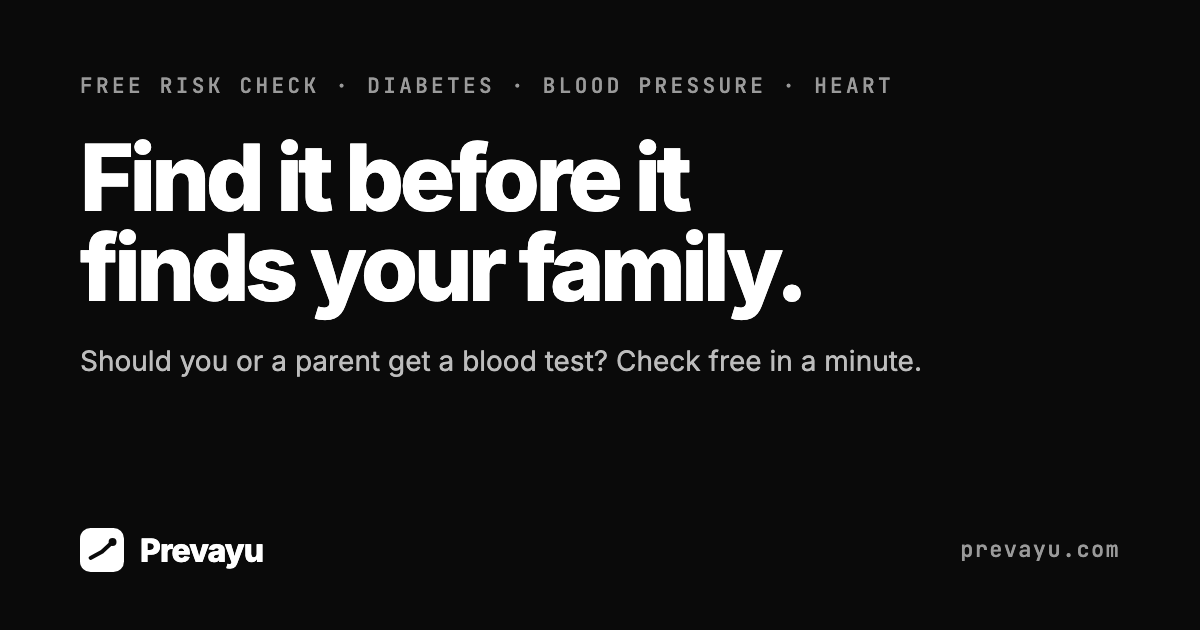
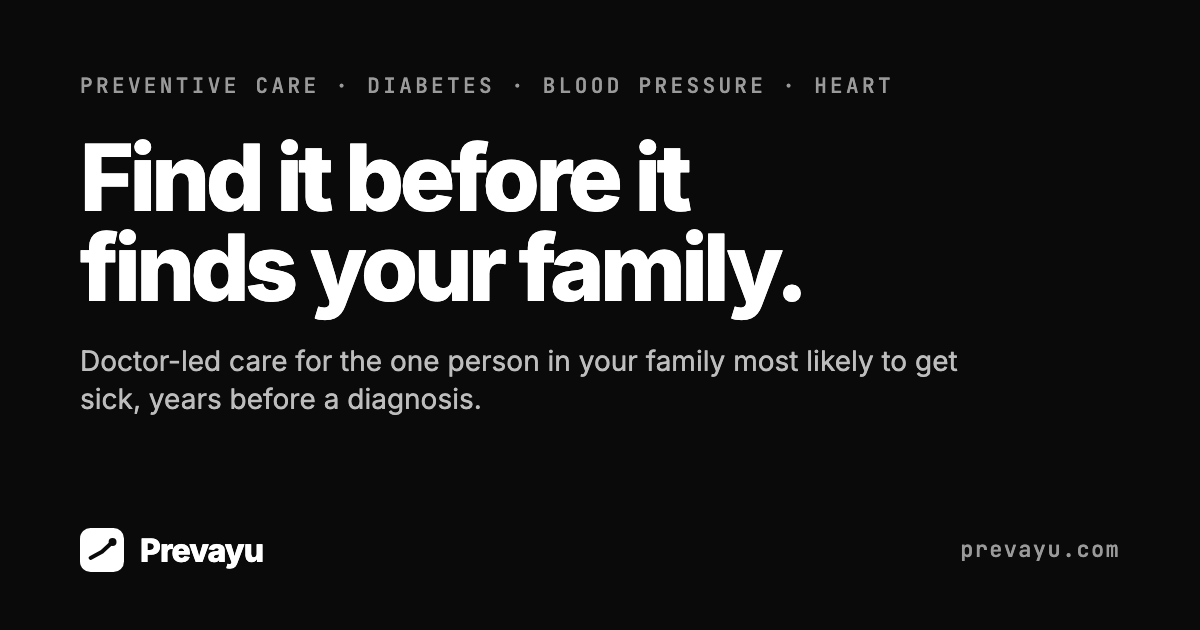
Homepage title and share image lead with positioning, not the free check

Changed region(s): [[0.0617, 0.5429, 0.8017, 0.6635], [0.0925, 0.1206, 0.2775, 0.1508]]

diff --git a/index.html b/index.html
@@ -3,25 +3,25 @@
 <head>
 <meta charset="utf-8">
 <meta name="viewport" content="width=device-width, initial-scale=1">
-<title>Free Diabetes Risk Check for You or Your Parents | Prevayu</title>
-<meta name="description" content="Should you or a parent get a blood test for diabetes? Take the free Indian Diabetes Risk Score check, then get doctor-led care that stays with your family.">
+<title>Prevayu | Find It Before It Finds Your Family</title>
+<meta name="description" content="Prevayu finds the family member most likely to get diabetes, high blood pressure or heart disease, years early, and keeps them in care with a doctor-led team.">
 <link rel="canonical" href="https://www.prevayu.com/">
 <meta property="og:type" content="website">
 <meta property="og:site_name" content="Prevayu">
 <meta property="og:locale" content="en_IN">
-<meta property="og:title" content="Free Diabetes Risk Check for You or Your Parents | Prevayu">
-<meta property="og:description" content="Should you or a parent get a blood test for diabetes? Take the free Indian Diabetes Risk Score check, then get doctor-led care that stays with your family.">
+<meta property="og:title" content="Prevayu | Find It Before It Finds Your Family">
+<meta property="og:description" content="Prevayu finds the family member most likely to get diabetes, high blood pressure or heart disease, years early, and keeps them in care with a doctor-led team.">
 <meta property="og:url" content="https://www.prevayu.com/">
 <meta property="og:image" content="https://www.prevayu.com/og/home.png">
 <meta property="og:image:type" content="image/png">
 <meta property="og:image:width" content="1200">
 <meta property="og:image:height" content="630">
-<meta property="og:image:alt" content="Prevayu. Find it before it finds your family. Free diabetes risk check.">
+<meta property="og:image:alt" content="Prevayu. Find it before it finds your family. Doctor-led preventive care for Indian families.">
 <meta name="twitter:card" content="summary_large_image">
-<meta name="twitter:title" content="Free Diabetes Risk Check for You or Your Parents | Prevayu">
-<meta name="twitter:description" content="Should you or a parent get a blood test for diabetes? Take the free Indian Diabetes Risk Score check, then get doctor-led care that stays with your family.">
+<meta name="twitter:title" content="Prevayu | Find It Before It Finds Your Family">
+<meta name="twitter:description" content="Prevayu finds the family member most likely to get diabetes, high blood pressure or heart disease, years early, and keeps them in care with a doctor-led team.">
 <meta name="twitter:image" content="https://www.prevayu.com/og/home.png">
-<meta name="twitter:image:alt" content="Prevayu. Find it before it finds your family. Free diabetes risk check.">
+<meta name="twitter:image:alt" content="Prevayu. Find it before it finds your family. Doctor-led preventive care for Indian families.">
 <script type="application/ld+json">
 {
  "@context": "https://schema.org",
@@ -62,9 +62,9 @@
   },
   {
    "@type": "WebPage",
-   "name": "Free Diabetes Risk Check for You or Your Parents | Prevayu",
+   "name": "Prevayu | Find It Before It Finds Your Family",
    "url": "https://www.prevayu.com/",
-   "description": "Should you or a parent get a blood test for diabetes? Take the free Indian Diabetes Risk Score check, then get doctor-led care that stays with your family.",
+   "description": "Prevayu finds the family member most likely to get diabetes, high blood pressure or heart disease, years early, and keeps them in care with a doctor-led team.",
    "isPartOf": {
     "@id": "https://www.prevayu.com/#site"
    },

diff --git a/about.html b/about.html
@@ -3,13 +3,13 @@
 <head>
 <meta charset="utf-8">
 <meta name="viewport" content="width=device-width, initial-scale=1">
-<title>About Prevayu: Preventive Care for Indian Families</title>
+<title>About Prevayu: Why We Started and Who Is Behind It</title>
 <meta name="description" content="Prevayu finds the family member most likely to get diabetes, high blood pressure or heart disease, and keeps them in care. No commissions, tests at lab cost.">
 <link rel="canonical" href="https://www.prevayu.com/about">
 <meta property="og:type" content="website">
 <meta property="og:site_name" content="Prevayu">
 <meta property="og:locale" content="en_IN">
-<meta property="og:title" content="About Prevayu: Preventive Care for Indian Families">
+<meta property="og:title" content="About Prevayu: Why We Started and Who Is Behind It">
 <meta property="og:description" content="Prevayu finds the family member most likely to get diabetes, high blood pressure or heart disease, and keeps them in care. No commissions, tests at lab cost.">
 <meta property="og:url" content="https://www.prevayu.com/about">
 <meta property="og:image" content="https://www.prevayu.com/og/about.png">
@@ -18,7 +18,7 @@
 <meta property="og:image:height" content="630">
 <meta property="og:image:alt" content="About Prevayu. Find it early. Stay with it.">
 <meta name="twitter:card" content="summary_large_image">
-<meta name="twitter:title" content="About Prevayu: Preventive Care for Indian Families">
+<meta name="twitter:title" content="About Prevayu: Why We Started and Who Is Behind It">
 <meta name="twitter:description" content="Prevayu finds the family member most likely to get diabetes, high blood pressure or heart disease, and keeps them in care. No commissions, tests at lab cost.">
 <meta name="twitter:image" content="https://www.prevayu.com/og/about.png">
 <meta name="twitter:image:alt" content="About Prevayu. Find it early. Stay with it.">
@@ -62,7 +62,7 @@
   },
   {
    "@type": "WebPage",
-   "name": "About Prevayu: Preventive Care for Indian Families",
+   "name": "About Prevayu: Why We Started and Who Is Behind It",
    "url": "https://www.prevayu.com/about",
    "description": "Prevayu finds the family member most likely to get diabetes, high blood pressure or heart disease, and keeps them in care. No commissions, tests at lab cost.",
    "isPartOf": {
